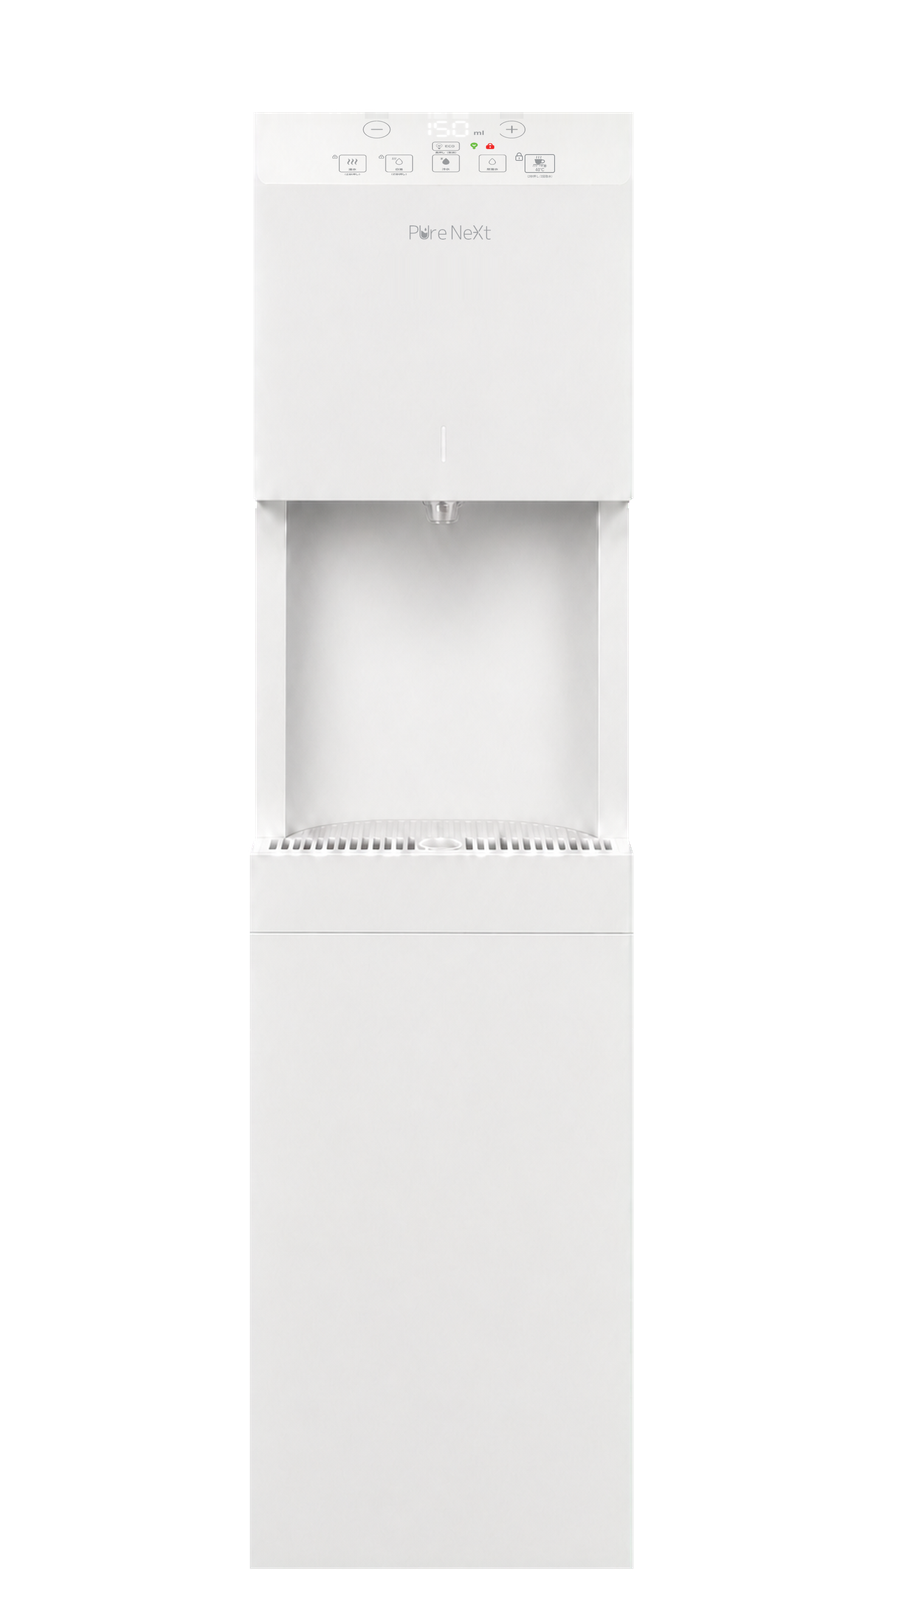
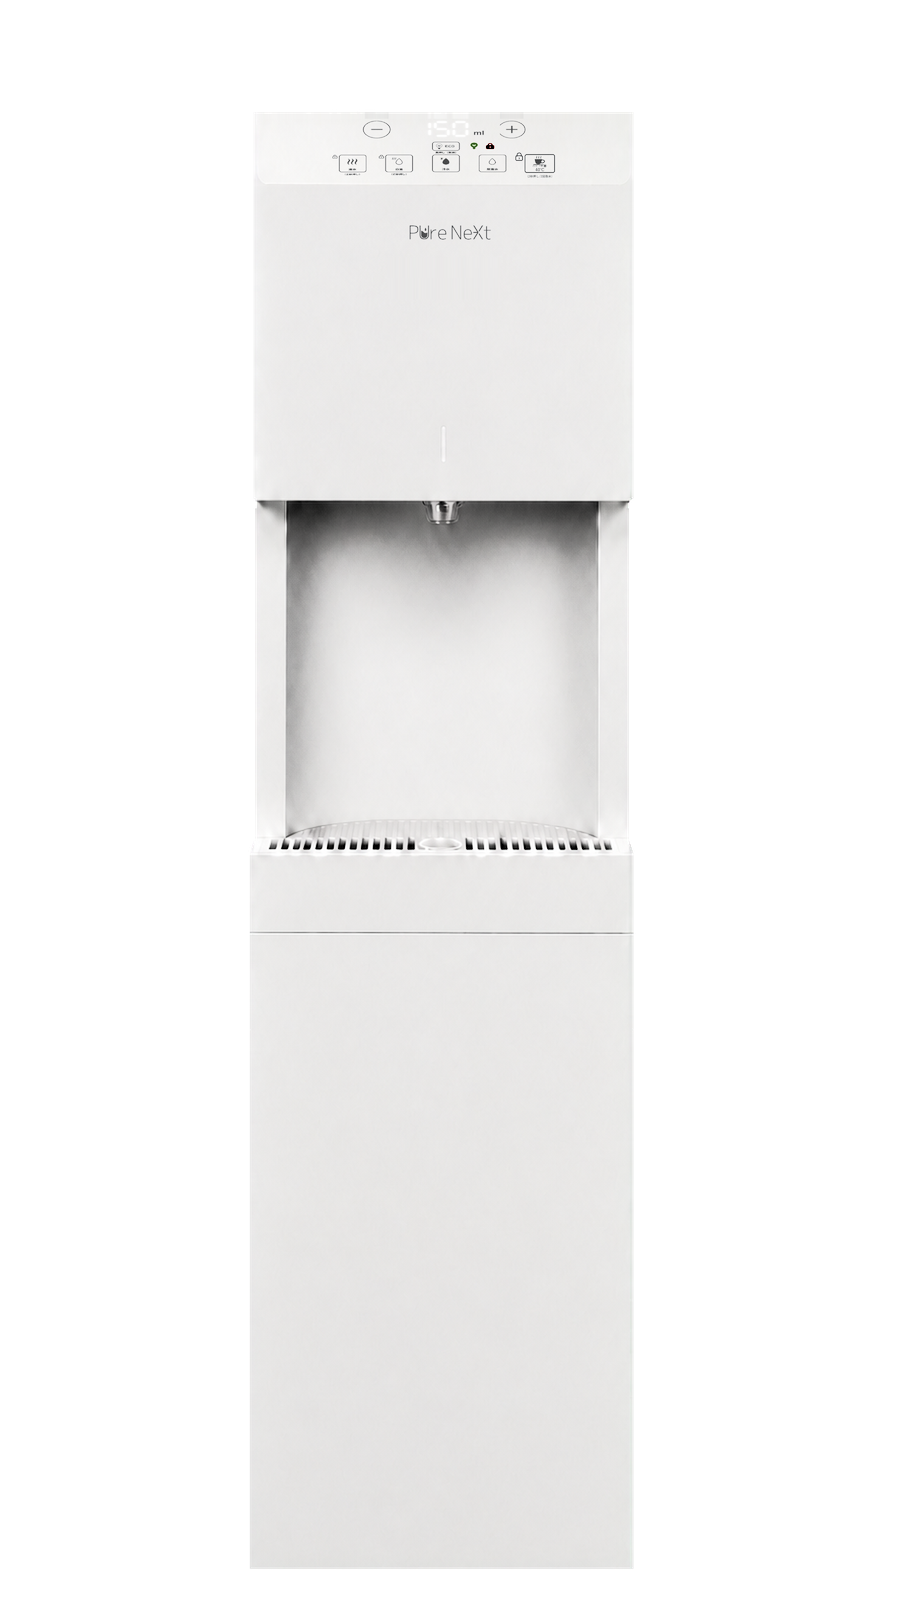
revision10: スペック帯の背景を白系ニュートラルへ＋白モデル写真の影深化（gain1.2）

Changed region(s): [[0.28, 0.3125, 0.6844, 0.4062], [0.3111, 0.5, 0.4356, 0.5312]]

diff --git a/css/style.css b/css/style.css
@@ -701,7 +701,7 @@ img{display:block}
   background:
     linear-gradient(115deg,rgba(255,255,255,0) 38%,rgba(255,255,255,.55) 47%,rgba(255,255,255,0) 56%),
     radial-gradient(90% 70% at 18% 8%,#fdfeff 0%,rgba(253,254,255,0) 62%),
-    linear-gradient(180deg,#f8fafe 0%,#eef2fa 42%,#e4eaf4 78%,#eef2f8 96%,#f4f7fb 100%);
+    linear-gradient(180deg,#ffffff 0%,#f8f8f9 42%,#f1f2f4 78%,#f6f7f8 96%,#fafafb 100%);
 }
 .spec__unit{
   position:absolute;height:780px;width:auto;
